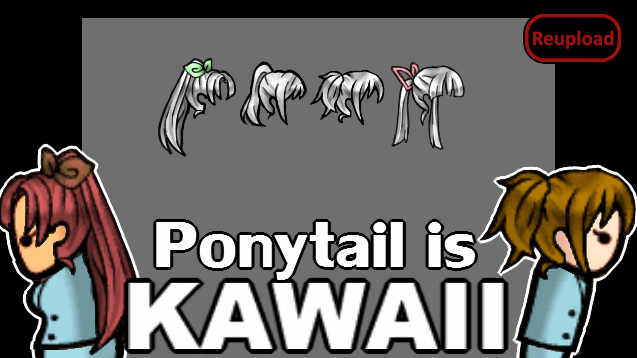
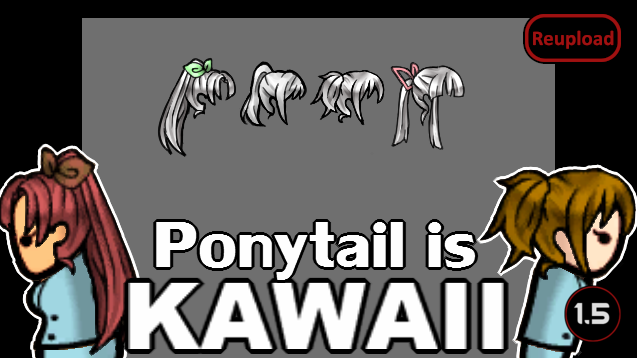
Mod updated for 1.5 and passed autotests

Changed region(s): [[0.865, 0.7989, 0.9843, 0.9525]]

diff --git a/README.md b/README.md
@@ -31,11 +31,13 @@ For B19 ⇒⇒⇒⇒⇒⇒　https://steamcommunity.com/sharedfiles/filedetails/
 
 -  See if the the error persists if you just have this mod and its requirements active.
 -  If not, try adding your other mods until it happens again.
--  Post your error-log using https://steamcommunity.com/workshop/filedetails/?id=818773962]HugsLib and command Ctrl+F12
+-  Post your error-log using https://steamcommunity.com/workshop/filedetails/?id=818773962]HugsLib or the standalone https://steamcommunity.com/sharedfiles/filedetails/?id=2873415404]Uploader and command Ctrl+F12
 -  For best support, please use the Discord-channel for error-reporting.
 -  Do not report errors by making a discussion-thread, I get no notification of that.
 -  If you have the solution for a problem, please post it to the GitHub repository.
+-  Use https://github.com/RimSort/RimSort/releases/latest]RimSort to sort your mods
 
 
 
+https://steamcommunity.com/sharedfiles/filedetails/changelog/2039006216]![Image](https://img.shields.io/github/v/release/emipa606/PonytailIsKawaii?label=latest%20version&style=plastic&color=9f1111&labelColor=black)
 
